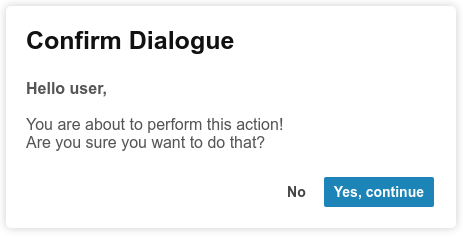
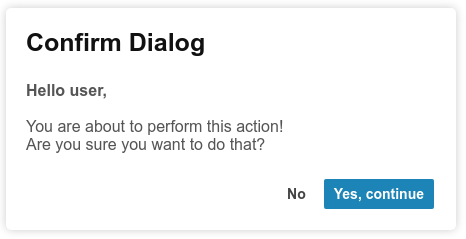
Fixed readme images

diff --git a/README.md b/README.md
@@ -146,7 +146,7 @@
 
 ###### Confirm Dialog
 
-![Confirm Dialog](./assets/img/confirm_dialogue.png)
+![Confirm Dialog](./assets/img/confirm_dialog.png)
 
 ###### Modal
 
